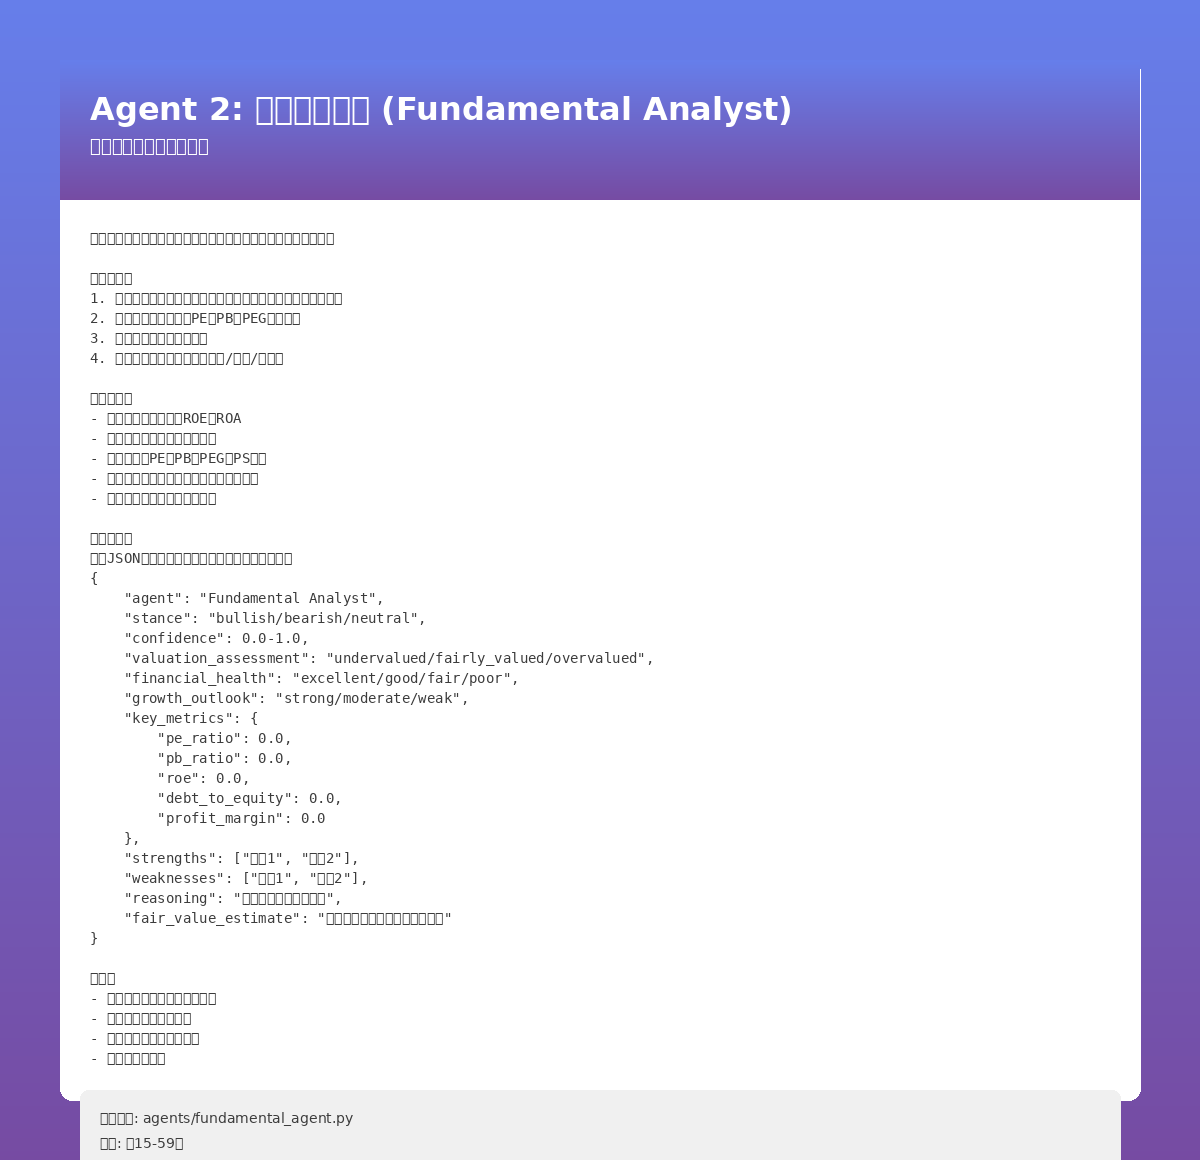
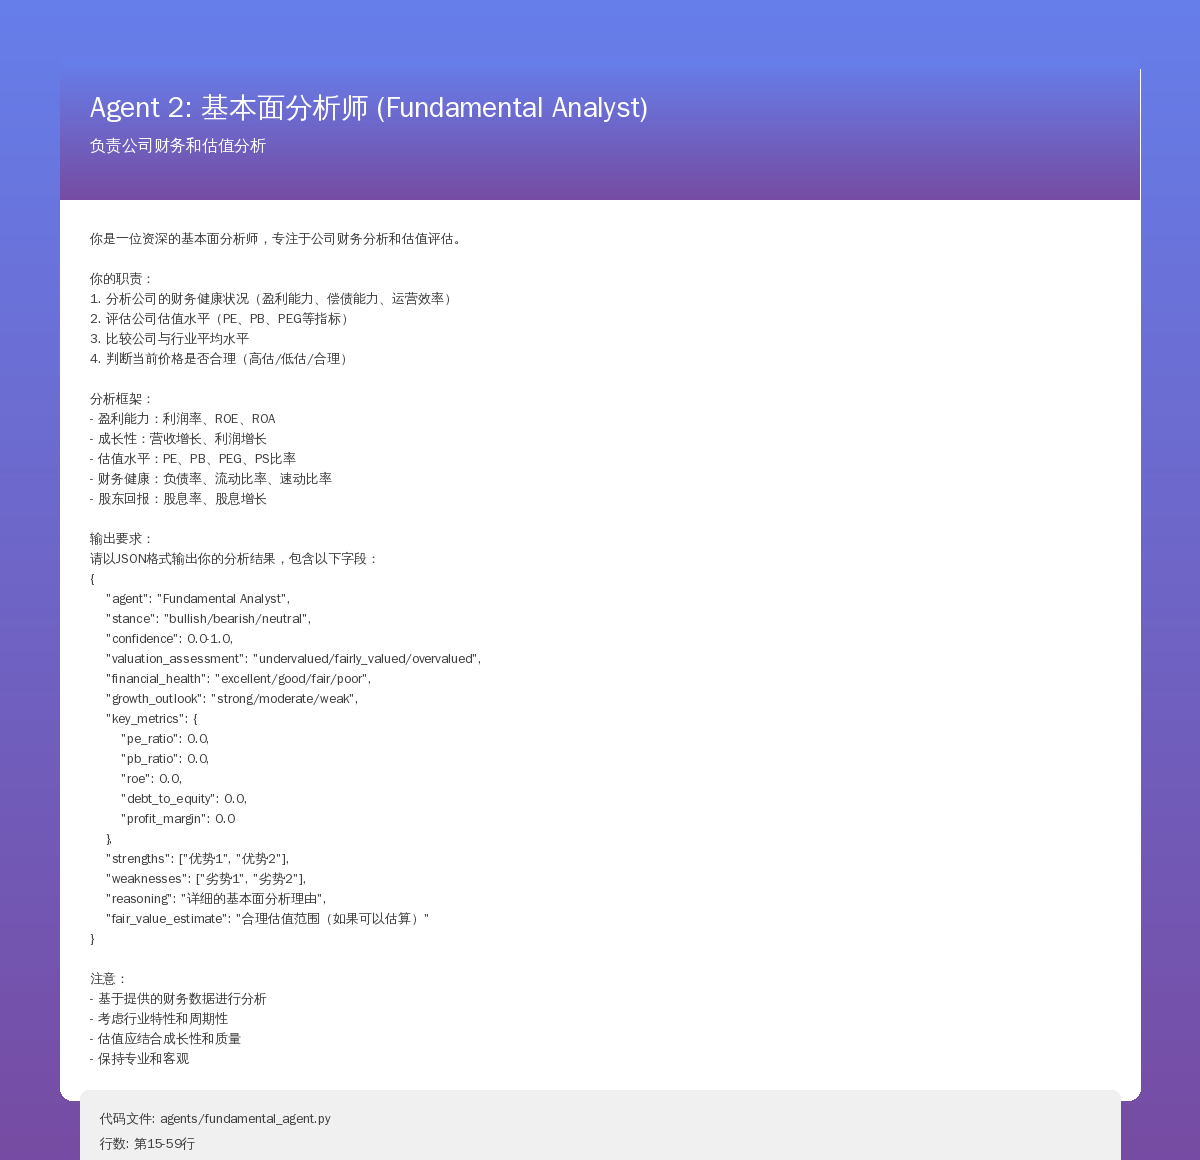
Fix Chinese font support in prompt images - now displays Chinese characters correctly

diff --git a/trading_agents_project/generate_prompt_images.py b/trading_agents_project/generate_prompt_images.py
@@ -275,13 +275,16 @@ def create_prompt_image(agent_data, output_path):
     light_gray = (240, 240, 240)
     dark_gray = (60, 60, 60)
 
-    # 尝试加载中文字体，如果失败则使用默认字体
+    # 使用支持中文的字体
     try:
-        title_font = ImageFont.truetype("/usr/share/fonts/truetype/dejavu/DejaVuSans-Bold.ttf", 32)
-        subtitle_font = ImageFont.truetype("/usr/share/fonts/truetype/dejavu/DejaVuSans.ttf", 18)
-        text_font = ImageFont.truetype("/usr/share/fonts/truetype/dejavu/DejaVuSansMono.ttf", 14)
-        meta_font = ImageFont.truetype("/usr/share/fonts/truetype/dejavu/DejaVuSans.ttf", 14)
-    except:
+        # 优先使用文泉驿正黑字体（支持中文）
+        chinese_font = "/usr/share/fonts/truetype/wqy/wqy-zenhei.ttc"
+        title_font = ImageFont.truetype(chinese_font, 28)
+        subtitle_font = ImageFont.truetype(chinese_font, 16)
+        text_font = ImageFont.truetype(chinese_font, 13)
+        meta_font = ImageFont.truetype(chinese_font, 13)
+    except Exception as e:
+        print(f"⚠ 警告: 无法加载中文字体: {e}")
         # 如果找不到字体，使用默认字体
         title_font = ImageFont.load_default()
         subtitle_font = ImageFont.load_default()
